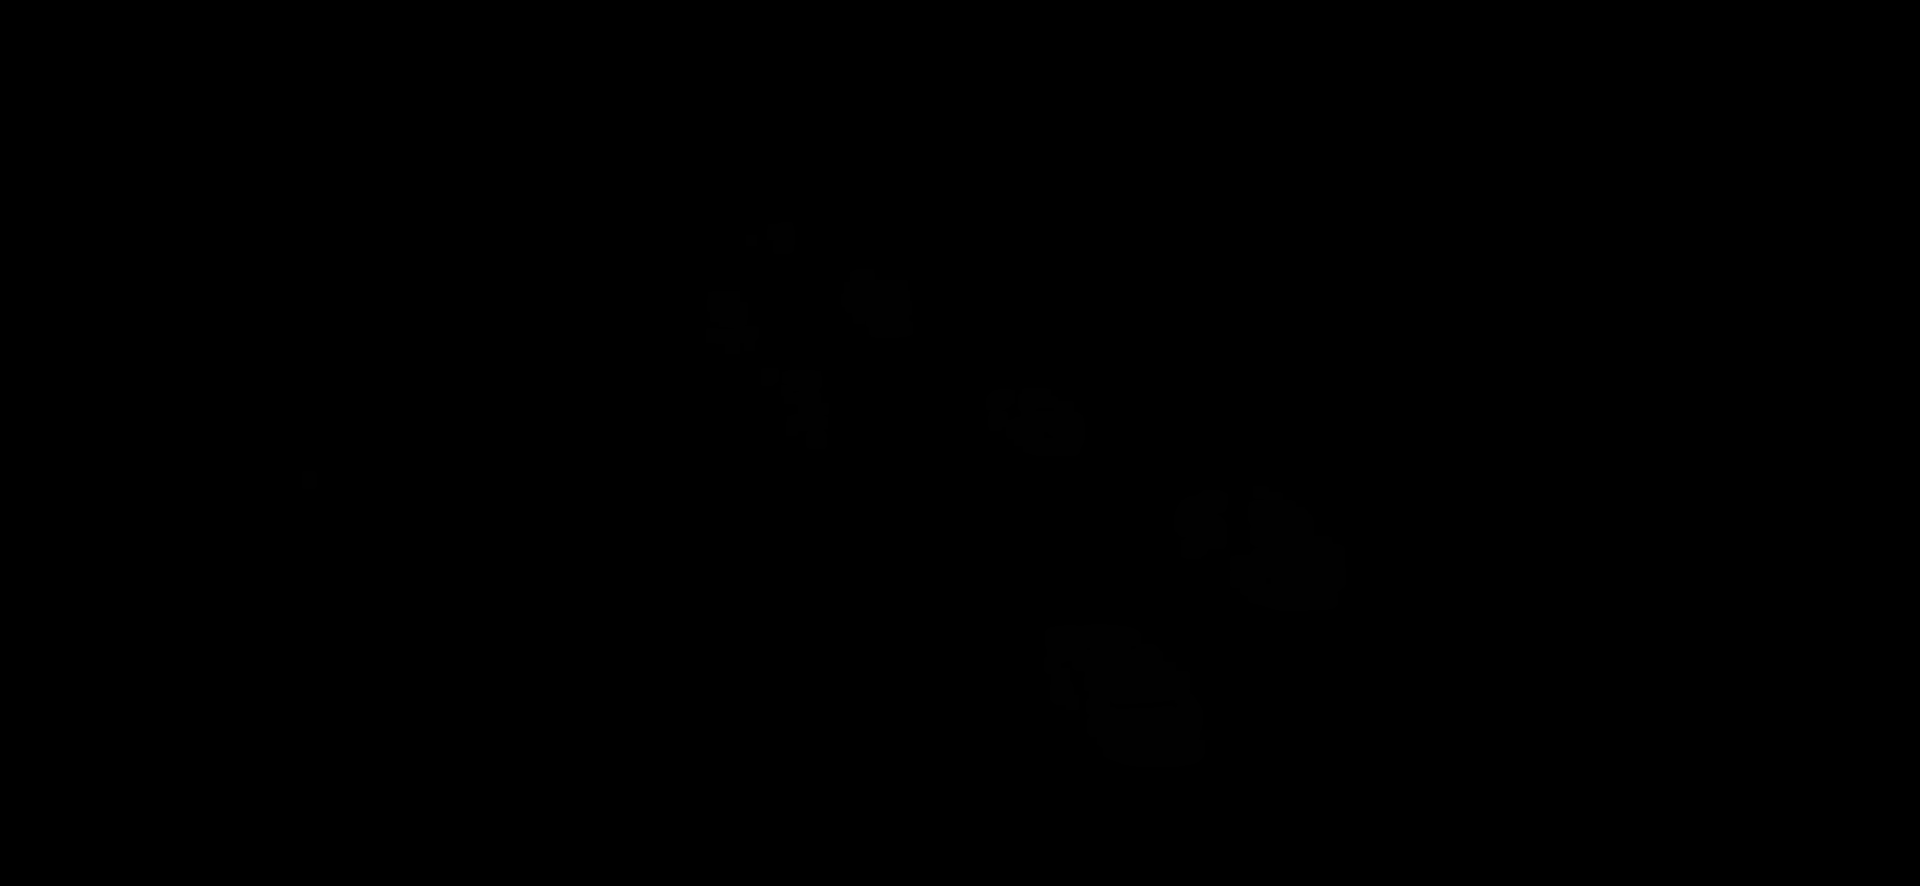
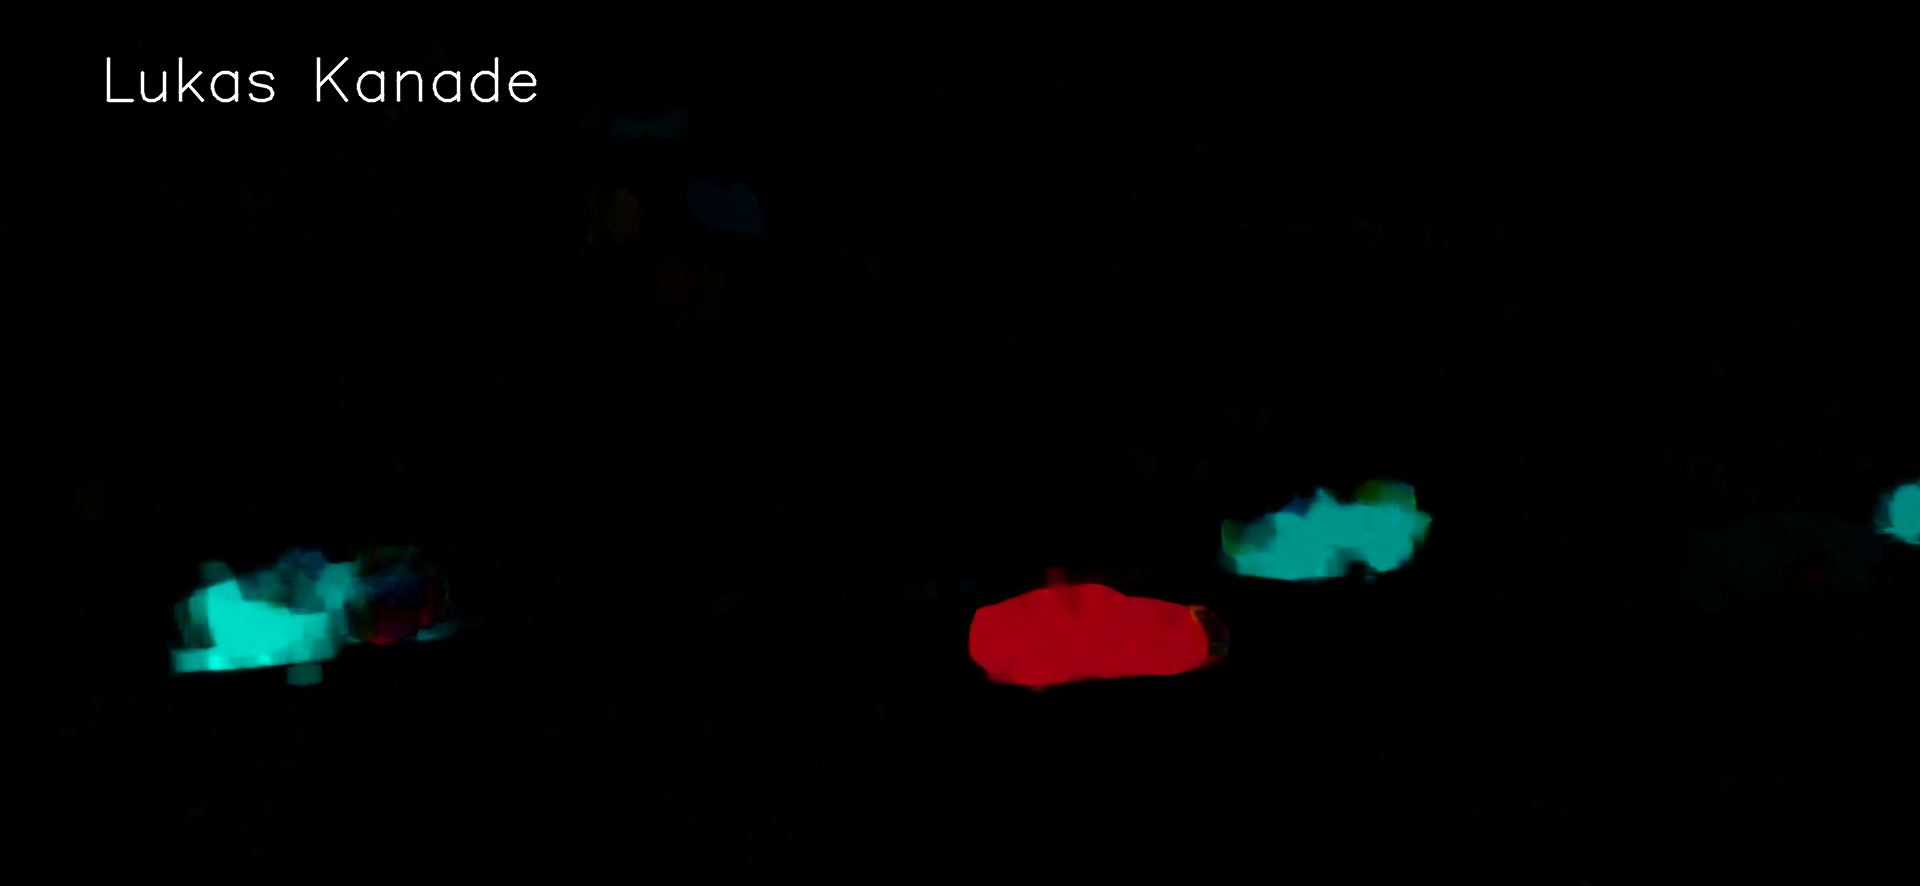
Readme Update 3

diff --git a/test_j.py b/test_j.py
@@ -10,7 +10,7 @@ def main():
     #lukas_kanade(path)
     #backround_sub(path, mog2=True)
 
-    classic = False
+    classic = True
 
     cap = get_livestream(url)
     width = int(cap.get(cv.CAP_PROP_FRAME_WIDTH))
@@ -31,7 +31,7 @@ def main():
     yolo_tracker = yolo_track()
 
     k = 0
-    while True:
+    while k<38:
         ret, frame = cap.read()
         if not ret:
             print('Stream loading error')
@@ -40,13 +40,13 @@ def main():
         print(f'Frame {k}/{length}')
 
         if classic==True:
-            frame1,_ = mog(frame)
+            #frame1,_ = mog(frame)
             #frame2, _ = knn(frame)
             #frame3, _ = cnt(frame)
             #frame4, _ = gmg(frame)
             #frame5 = motion(frame)
             #frame6 = watershed_segmentation(frame1)
-            #_,frame7,_, _ = lukas(frame)
+            _,frame7,_, _ = lukas(frame)
             #frame9 = hdbscan_clustering(frame5)
 
             #frame1 = add_text_to_frame(frame1, 'MOG')
@@ -55,7 +55,7 @@ def main():
             #frame4 = add_text_to_frame(frame4, 'GMG')
             #frame5 = add_text_to_frame(frame5, 'Motion')
             #frame6 = add_text_to_frame(frame6, 'watershed')
-            #frame7 = add_text_to_frame(frame7, 'Lukas Kanade')
+            frame7 = add_text_to_frame(frame7, 'Lukas Kanade')
 
         else:
             frame, ins, out = yolo_region(frame)
@@ -73,12 +73,12 @@ def main():
         #frame = stitch_frames(frame2, frame7, frame5, frame3)
 
         # Zeigen der Ergebnisse
-        cv.imshow('Live_Output', frame)
+        cv.imshow('Live_Output', frame7)
         if cv.waitKey(1) & 0xFF == ord('q'):
             break
 
-        str = "Yolo22"
-        cv.imwrite(f'resources/{str}.png', frame)
+        str = "Lukas_Kanade"
+        cv.imwrite(f'resources/{str}.png', frame7)
         k +=1
 
 

diff --git a/README.md b/README.md
@@ -108,6 +108,7 @@ Als nächstes wurde eine weitere Methode für die Motion Extraction aus Video ge
 <center><img src="resources/Motion.png" alt="Motion" /></center>
 Anschließend wurde noch eine Umsetzung des Lukas Kanade Algorithmus für Dense Optical Flow von OpenCV getestet. Ziel war es, anhand eines Vektorfeldes einzelne bewegte Objekte im Bild zu segmentieren, und sich überlagernde Objekte anhand des Algorithmus zu differenzieren. Die Umsetzung hiervon war sehr rechenintensiv und langsam, weshalb für eine spätere eventuelle, alternative Verwendung unter anderem nur die Magnitude und der Winkel als Rückgabeparameter implementiert wurden. 
 <center><img src="resources/Lukas_Kanade.png" alt="Lukas_Kanade" /></center>
+
 Um die unterschiedlichen Binärmasken aus den Ergebnissen der vorhergehenden FUnktionen zu verbessern, wurden unterschieliche Clustering Methoden betrachtet. Diese waren aber aufgrund einer sehr hohen Laufzeit, bedingt doch die große Menge an Punkten in den Punktwolken bei hoher Auflösung, nicht sinnvoll anwendbar oder brauchten zur initialisierung eine Anzahl der gewünschten Cluster, was in diesem Anwendungsfall nicht sinnvoll ist. 
 Für die Umsetzung mit Machine Learning wurde YoloV8 ausgewählt, da dieses vergleichsweise sehr gut Dokumentiert war und die gegebenen Modelle ausreichend trainiert waren, sodass diese auf Anhieb funktionieren konnten. Hierfür wurden auf der Grundlage von zwei Online Beispielen zwei Umsetzungen getestet, explizit wurden die Modi Predict und Track getestet, jedoch waren für unseren Anwendungsfall hier keine gravierenden Unterschiede ersichtlich.<center><img src="resources/yolo_region.png" /></center>
 
